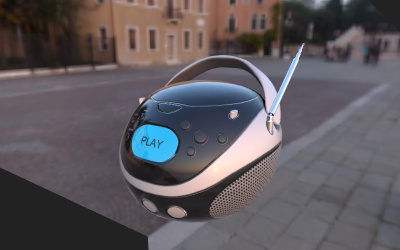
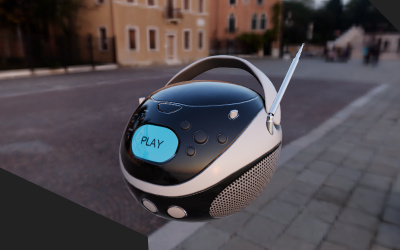
Examples: Added tone mapping to webgl_loader_gltf_extensions.

diff --git a/examples/webgl_loader_gltf_extensions.html b/examples/webgl_loader_gltf_extensions.html
@@ -149,6 +149,8 @@
 				renderer.setPixelRatio( window.devicePixelRatio );
 				renderer.setSize( window.innerWidth, window.innerHeight );
 				renderer.outputEncoding = THREE.sRGBEncoding;
+				renderer.toneMapping = THREE.ACESFilmicToneMapping;
+				renderer.toneMappingExposure = 1.25;
 				renderer.physicallyCorrectLights = true;
 				document.body.appendChild( renderer.domElement );
 
